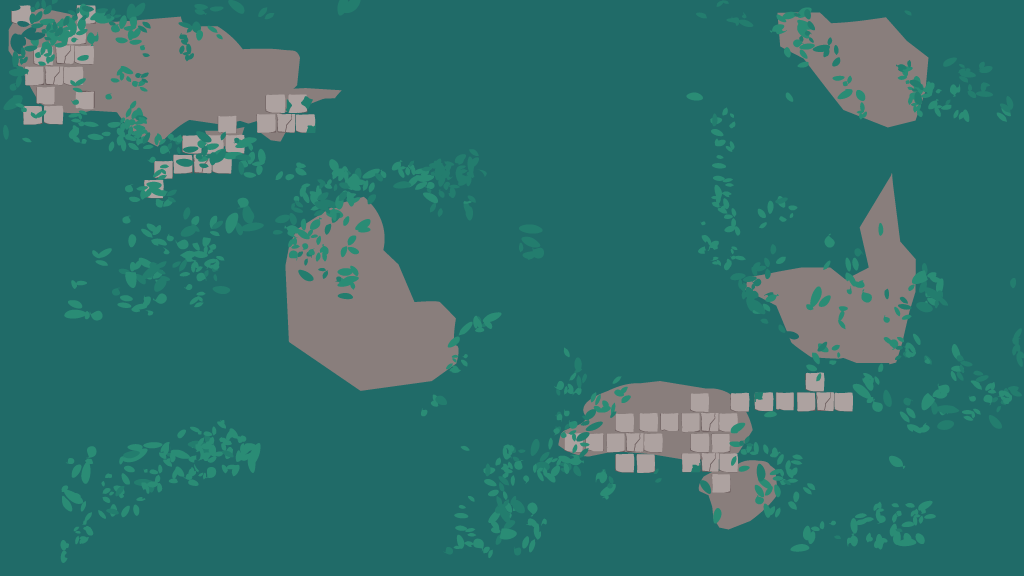
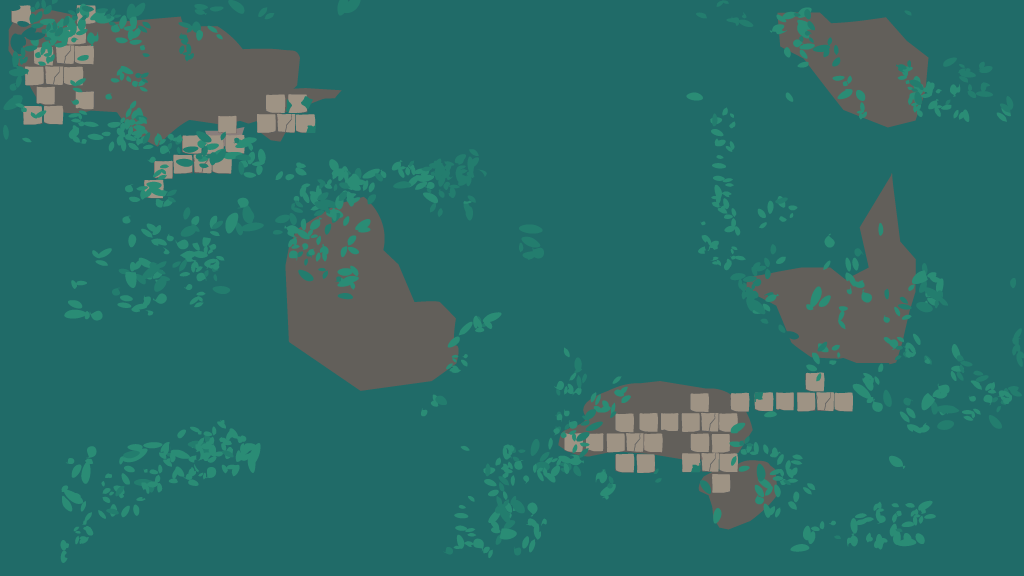
background and glyphs color progression tweaked

diff --git a/core/src/edu/cornell/gdiac/physics/host/HostModel.java b/core/src/edu/cornell/gdiac/physics/host/HostModel.java
@@ -138,6 +138,16 @@ public class HostModel extends BoxObstacle {
      */
     FilmStrip pedestalHost;
 
+    /**
+     * The texture filmstrip for the animation for a new possession
+     */
+    FilmStrip newPossessionStrip;
+
+    /**
+     * The texture filmstrip for the animation for any possession
+     */
+    FilmStrip genPossessionStrip;
+
     // Default physics values
     /**
      * The density of this host
@@ -173,6 +183,12 @@ public class HostModel extends BoxObstacle {
      * The color of the glyphs for unpossessed golems
      */
     private static final Color unpossessedGlyphColor = Color.valueOf("#938282");
+
+    /**
+     * The color of the glyphs for possessed golems
+     */
+    private static final Color possessedColor = Color.valueOf("#c8f1ee");
+
 
 
     // FRAMES FOR SPRITE SHEET
@@ -935,6 +951,14 @@ public class HostModel extends BoxObstacle {
      * @param canvas Drawing context
      */
     public void draw(GameCanvas canvas) {
+        float chargeProgression = (float) currentCharge / maxCharge;
+        /**
+         * The Warning Color
+         */
+        Color warningColor = new Color(64f/256f + Math.min(191/256f, 272/256f * Math.max(0, chargeProgression - 0.3f)),
+                198f/256f - Math.min(75f/256f,(75f/256f * chargeProgression)),
+                232f/256f - Math.min(84f/256f,(84f/256f * Math.max(0, chargeProgression - 0.5f))), 1);
+
         if (this.isPedestal) {
             // Make pedestal clear when no longer in possession.
             if (this.isPossessed) {
@@ -944,7 +968,6 @@ public class HostModel extends BoxObstacle {
             }
         } else {
             // Draw the host
-            float chargeProgression = currentCharge / maxCharge;
             if (this.hostStrip != null && this.hostChargeUI != null) {
 
                 // If bot has already been possessed colors should change
@@ -952,18 +975,19 @@ public class HostModel extends BoxObstacle {
                     /** Implementation of the HostModel with Charging Bar that Changes Colors and Blinks */
                     if (this.currentCharge < this.maxCharge) {
                         canvas.draw(hostStrip, Color.WHITE, hostStrip.getRegionWidth() / 2f, hostStrip.getRegionHeight() / 2f, getX() * drawScale.x, getY() * drawScale.y, getAngle(), sx, sy);
-                        canvas.draw(glyphStrip, Color.WHITE, glyphStrip.getRegionWidth() / 2f, glyphStrip.getRegionHeight() / 2f, getX() * drawScale.x, getY() * drawScale.y, getAngle(), sx, sy);
+                        canvas.draw(glyphStrip, warningColor, glyphStrip.getRegionWidth() / 2f, glyphStrip.getRegionHeight() / 2f, getX() * drawScale.x, getY() * drawScale.y, getAngle(), sx, sy);
                         canvas.draw(armStrip, Color.WHITE, armStrip.getRegionWidth() / 2f, armStrip.getRegionHeight() / 2f, getX() * drawScale.x, getY() * drawScale.y, getAngle(), sx, sy);
+                        // WHEN GOLEM DIES
                     } else {
                         canvas.draw(hostStrip, Color.RED, hostStrip.getRegionWidth() / 2f, hostStrip.getRegionHeight() / 2f, getX() * drawScale.x, getY() * drawScale.y, getAngle(), sx, sy);
-                        canvas.draw(glyphStrip, Color.WHITE, glyphStrip.getRegionWidth() / 2f, glyphStrip.getRegionHeight() / 2f, getX() * drawScale.x, getY() * drawScale.y, getAngle(), sx, sy);
+                        canvas.draw(glyphStrip, Color.RED, glyphStrip.getRegionWidth() / 2f, glyphStrip.getRegionHeight() / 2f, getX() * drawScale.x, getY() * drawScale.y, getAngle(), sx, sy);
                         canvas.draw(armStrip, Color.WHITE, armStrip.getRegionWidth() / 2f, armStrip.getRegionHeight() / 2f, getX() * drawScale.x, getY() * drawScale.y, getAngle(), sx, sy);
                     }
                 }
                 // When the bot hasn't been possessed the indicator color should be black
                 else {
                     canvas.draw(hostStrip, Color.WHITE, hostStrip.getRegionWidth() / 2f, hostStrip.getRegionHeight() / 2f, getX() * drawScale.x, getY() * drawScale.y, getAngle(), sx, sy);
-                    canvas.draw(glyphStrip, Color.WHITE, glyphStrip.getRegionWidth() / 2f, glyphStrip.getRegionHeight() / 2f, getX() * drawScale.x, getY() * drawScale.y, getAngle(), sx, sy);
+                    canvas.draw(glyphStrip, unpossessedGlyphColor, glyphStrip.getRegionWidth() / 2f, glyphStrip.getRegionHeight() / 2f, getX() * drawScale.x, getY() * drawScale.y, getAngle(), sx, sy);
                     canvas.draw(armStrip, Color.WHITE, armStrip.getRegionWidth() / 2f, armStrip.getRegionHeight() / 2f, getX() * drawScale.x, getY() * drawScale.y, getAngle(), sx, sy);
                 }
             }
@@ -976,9 +1000,16 @@ public class HostModel extends BoxObstacle {
      * @param canvas Drawing context
      */
     public void drawCharge(GameCanvas canvas) {
+        /**
+         * The Warning Color
+         */
+        float chargeProgression = (float) currentCharge / maxCharge;
+        Color warningColor = new Color(64f/256f + Math.min(191/256f, 272/256f * Math.max(0, chargeProgression - 0.3f)),
+                198f/256f - Math.min(75f/256f,(75f/256f * chargeProgression)),
+                232f/256f - Math.min(84f/256f,(84f/256f * Math.max(0, chargeProgression - 0.5f))), 1);
+
         if (!this.isPedestal) {
             // Draw the host
-            float chargeProgression = currentCharge / maxCharge;
             if (this.hostStrip != null && this.hostChargeUI != null) {
 
                 // If bot has already been possessed colors should change
@@ -988,15 +1019,13 @@ public class HostModel extends BoxObstacle {
 
                         // Color changes more and more to a red or goal color here
                         // Light Blue Color
-                        Color warningColor = new Color(200f/256f, 241f/256f, 238f/256f, 1);
 
-                        //System.out.println(this.inPillar);
                         if(this.inPillar) {
                             warningColor = new Color(255f/256f, 191f/256f, 124f/256f,1);
                         }
                         if ((chargeProgression >= 0.83f && chargeProgression <= 0.86f || chargeProgression >= 0.90f && chargeProgression <= 0.93f || chargeProgression >= 0.97f && chargeProgression <= 1f)) {
                             // Color of the 3 flashes
-                            warningColor = new Color (chargeProgression * 255f  / 256f , chargeProgression * 155f / 256f, chargeProgression * 222f/256f, 1);
+                            warningColor = new Color (chargeProgression * 255f  / 256f , chargeProgression * 123 / 256f, chargeProgression * 148f/256f, 1);
                         }
                         setScaling(hostChargeUI);
                         canvas.draw(hostChargeUI, warningColor, hostChargeUI.getRegionWidth() / 2f, hostChargeUI.getRegionHeight() / 2f, getX() * drawScale.x, getY() * drawScale.y, getAngle(), 0.9f, 0.9f);
